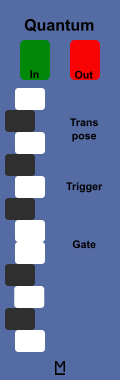
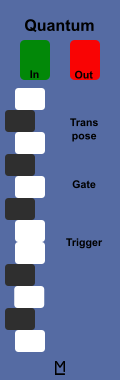
graphics error in Quantum fixed: Trigger and Delay were mixed up.

Changed region(s): [[0.225, 0.0289, 0.8, 0.0868], [0.55, 0.6079, 0.85, 0.6658], [0.55, 0.4632, 0.85, 0.5211]]

diff --git a/src/ML_modules.cpp b/src/ML_modules.cpp
@@ -7,9 +7,9 @@ struct ML_modulesPlugin : Plugin {
 	ML_modulesPlugin() {
 		slug = "ML Modules";
 		name = "ML Modules";
-		createModel<QuantizerWidget>(this, "Quantizer", "Quantizer");
+		createModel<QuantizerWidget>(this, "Quantizer", "Quantizer (h-bar)");
 		createModel<QuantumWidget>(this, "Quantum", "Quantum");
-		createModel<TrigBufWidget>(this, "TrigBuf", "TrigBuf");
+		createModel<TrigBufWidget>(this, "TrigBuf", "Trigger Buffer");
 		// createModel<SEQGWidget>(this, "SEQ-Gate", "SEQ-Gate");
 	}
 };

diff --git a/src/ML_modules.hpp b/src/ML_modules.hpp
@@ -20,6 +20,9 @@ struct TrigBufWidget : ModuleWidget {
 	TrigBufWidget();
 };
 
+struct SeqSwictWidget : ModuleWidget {
+	SeqSwitchWidget();
+};
 
 // struct MultWidget : ModuleWidget {
 // 	MultWidget();
